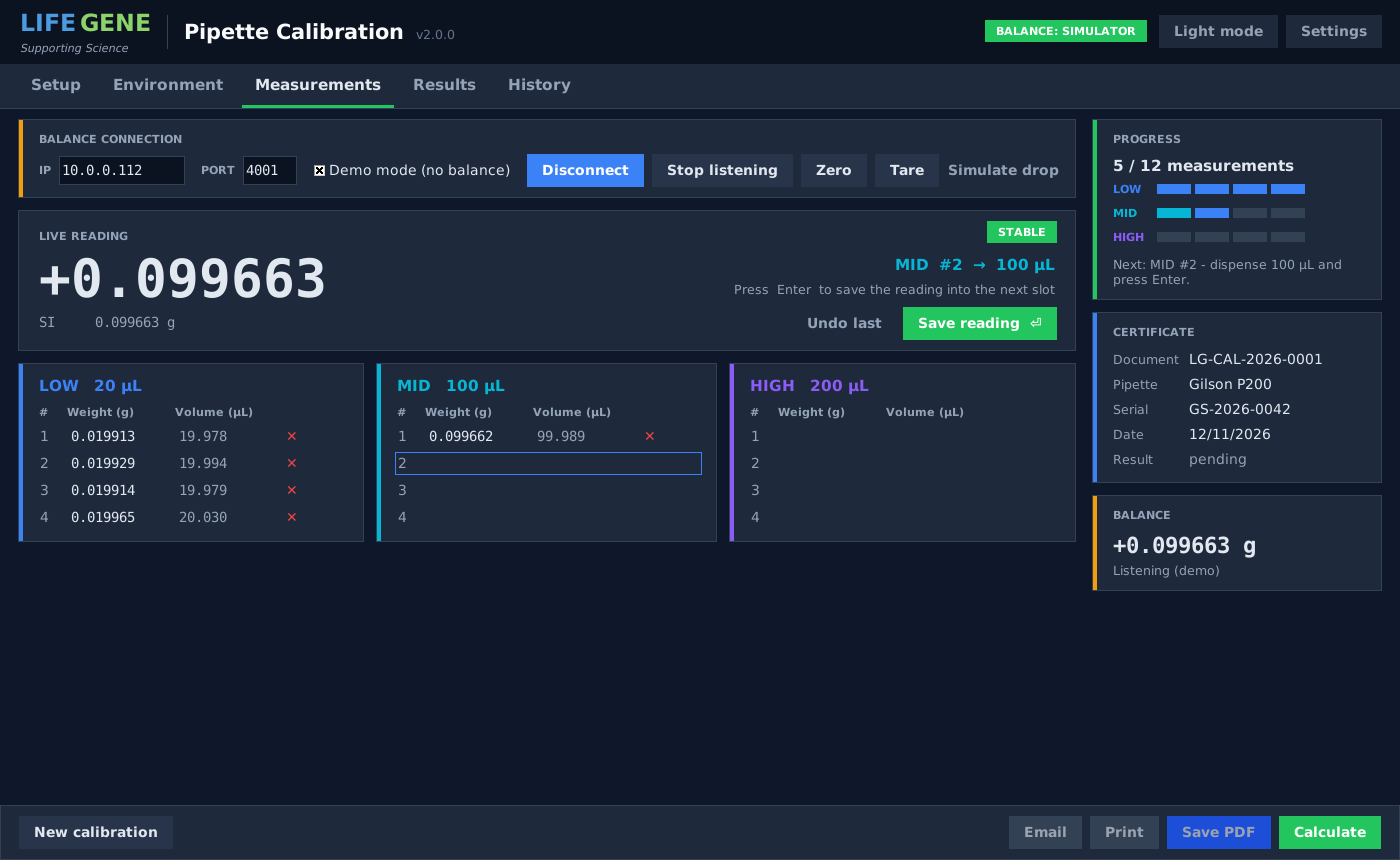
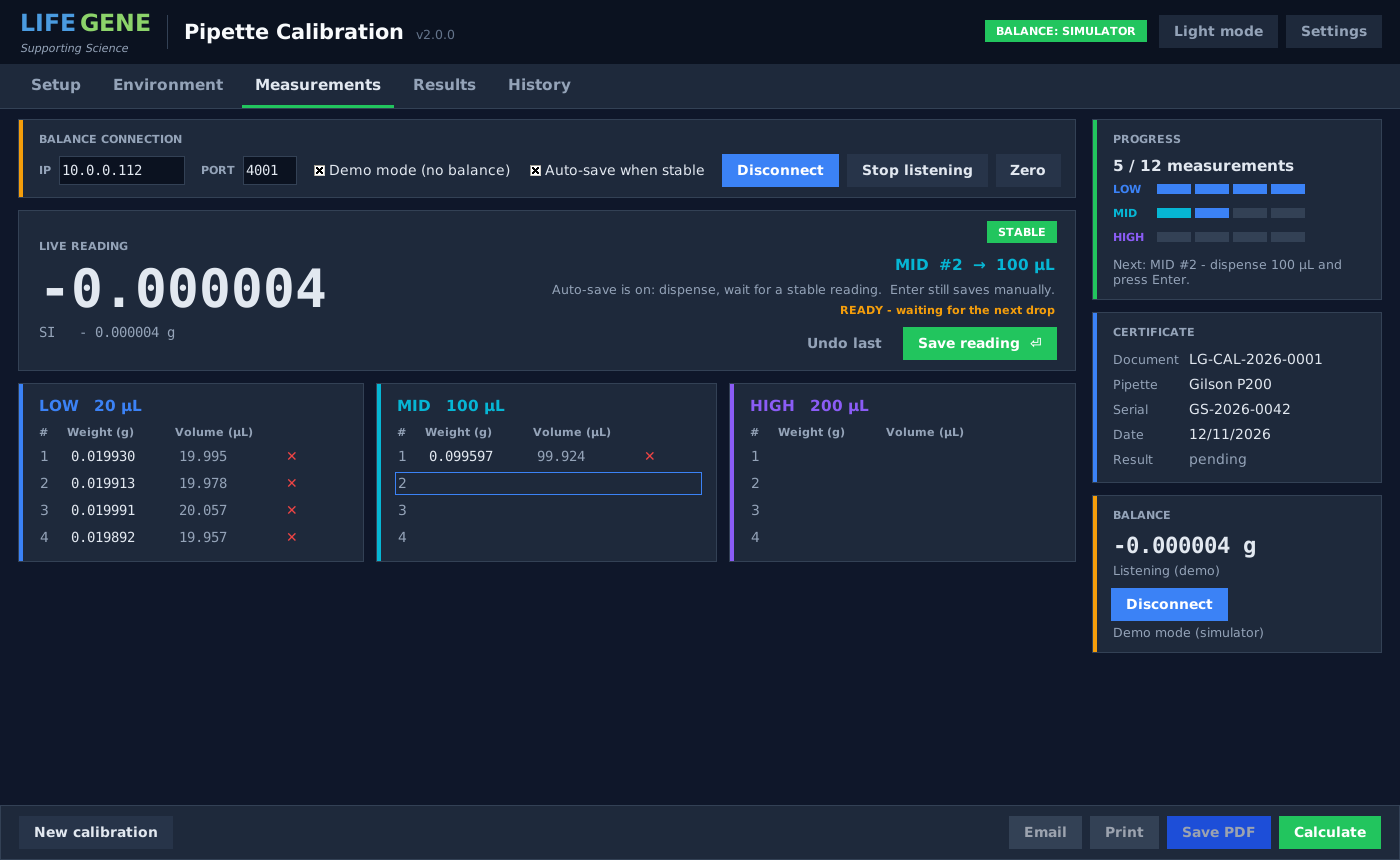
Auto-save a reading once the balance is stable
With 'Auto-save when stable' (default on) a drop is stored as soon as
the balance reports a stable value that has not moved for three
consecutive readings over at least 0.8 s and is at least 30 % of the
expected mass for the current test volume. The program then tares,
beeps, and re-arms only after the pan reads near zero again, so a drop
is never recorded twice and an empty pan is never recorded. Enter and
the Save button still work as a manual override.

Claude-Session: https://claude.ai/code/session_01DKbKsLg9aKj7DGaBzZdUqk

diff --git a/pipette-calibration/pipette_cal/app.py b/pipette-calibration/pipette_cal/app.py
@@ -42,6 +42,18 @@ log = logging.getLogger(__name__)
 
 TABS = ("Setup", "Environment", "Measurements", "Results", "History")
 DEFAULT_OPERATOR = "LifeGene Technical Service"
+
+# Automatic capture: a drop is saved when the balance reports a stable reading
+# that has not moved for AUTO_STABLE_READINGS consecutive readings spanning at
+# least AUTO_STABLE_SECONDS, and that is at least AUTO_MIN_FRACTION of the
+# expected mass of the current test volume. After a capture the program tares
+# and waits until the reading is back below AUTO_REARM_FRACTION before it will
+# capture again, so one drop can never be recorded twice.
+AUTO_STABLE_READINGS = 3
+AUTO_STABLE_SECONDS = 0.8
+AUTO_MIN_FRACTION = 0.30
+AUTO_REARM_FRACTION = 0.15
+AUTO_MIN_ABS_G = 0.00015          # never capture below 0.15 mg whatever the volume
 DATE_FMT = "%d/%m/%Y"
 
 PALETTES = {
@@ -194,6 +206,9 @@ class App(tk.Tk):
         self.scale: BaseScale | None = None
         self._connecting = False
         self.last_reading: Reading | None = None
+        self._auto_armed = True            # False after a capture until the pan reads ~0 again
+        self._auto_run: list[Reading] = []  # consecutive stable readings being evaluated
+        self._auto_flash_after: str | None = None
         self.weights: dict[Level, list[float]] = {lv: [] for lv in LEVELS}
         self.result: CalibrationResult | None = None
         self.current_record: CalibrationRecord | None = None
@@ -218,6 +233,8 @@ class App(tk.Tk):
         self.v_ip = tk.StringVar(value=self.cfg.scale_ip)
         self.v_port = tk.StringVar(value=str(self.cfg.scale_port))
         self.v_demo = tk.BooleanVar(value=self.cfg.demo_mode)
+        self.v_auto = tk.BooleanVar(value=self.cfg.auto_capture)
+        self.v_auto.trace_add("write", lambda *_: self._on_auto_toggle())
         self.v_search = tk.StringVar()
 
         self.v_model.trace_add("write", lambda *_: self._on_model_change())
@@ -265,6 +282,7 @@ class App(tk.Tk):
         self._refresh_slots()
         self._refresh_sidebar()
         self._refresh_scale_widgets()
+        self._refresh_auto_labels()
         self._refresh_history()
 
     def _style_ttk(self):
@@ -549,6 +567,7 @@ class App(tk.Tk):
         tk.Label(row, text="PORT", bg=p["surface"], fg=p["muted"], font=self.f_caption).pack(side="left")
         self._entry(row, self.v_port, width=6, mono=True).pack(side="left", padx=(6, 14), ipady=3)
         ttk.Checkbutton(row, text="Demo mode (no balance)", variable=self.v_demo).pack(side="left", padx=(0, 14))
+        ttk.Checkbutton(row, text="Auto-save when stable", variable=self.v_auto).pack(side="left", padx=(0, 14))
         self.btn_connect = Button(row, self, "Connect", self._toggle_connect, "primary")
         self.btn_connect.pack(side="left")
         self.btn_listen = Button(row, self, "Start listening", self._toggle_listen, "secondary")
@@ -576,8 +595,10 @@ class App(tk.Tk):
         self.live_target = tk.Label(right, text="", bg=p["surface"], fg=p["text"], font=self.f_h,
                                     justify="right")
         self.live_target.pack(anchor="e", pady=(10, 0))
-        tk.Label(right, text="Press  Enter  to save the reading into the next slot", bg=p["surface"],
-                 fg=p["muted"], font=self.f_small).pack(anchor="e", pady=(4, 0))
+        self.live_hint = tk.Label(right, text="", bg=p["surface"], fg=p["muted"], font=self.f_small)
+        self.live_hint.pack(anchor="e", pady=(4, 0))
+        self.auto_status = tk.Label(right, text="", bg=p["surface"], fg=p["amber"], font=self.f_caption)
+        self.auto_status.pack(anchor="e", pady=(2, 0))
         btns = tk.Frame(right, bg=p["surface"])
         btns.pack(anchor="e", pady=(8, 0))
         Button(btns, self, "Undo last", self._undo_last, "ghost").pack(side="left", padx=(0, 6))
@@ -855,6 +876,8 @@ class App(tk.Tk):
             try:
                 while True:
                     reading = self.scale.readings.get_nowait()
+                    if self.v_auto.get():
+                        self._auto_capture(reading)
             except queue.Empty:
                 pass
             if reading:
@@ -919,6 +942,90 @@ class App(tk.Tk):
             return
         self._save_reading()
 
+    def _expected_mass_g(self) -> float | None:
+        slot = self._next_slot()
+        if slot is None:
+            return None
+        return self.spec().volume_for(slot[0]) / 1000.0 / z_factor(self._safe_env())
+
+    def _on_auto_toggle(self):
+        self.cfg.auto_capture = self.v_auto.get()
+        self.cfg.save()
+        self._auto_run = []
+        self._auto_armed = True
+        if hasattr(self, "live_hint"):
+            self._refresh_auto_labels()
+
+    def _refresh_auto_labels(self, status: str = "", colour: str | None = None):
+        p = self.p
+        if self.v_auto.get():
+            self.live_hint.config(text="Auto-save is on: dispense, wait for a stable reading.  Enter still saves manually.")
+        else:
+            self.live_hint.config(text="Press  Enter  to save the reading into the next slot")
+        self.auto_status.config(text=status, fg=colour or p["amber"])
+
+    def _auto_capture(self, r: Reading):
+        """Called for every reading while auto-save is on."""
+        if not hasattr(self, "auto_status"):
+            return
+        expected = self._expected_mass_g()
+        if expected is None:                       # all slots full
+            return
+        min_capture = max(expected * AUTO_MIN_FRACTION, AUTO_MIN_ABS_G)
+        rearm_below = max(expected * AUTO_REARM_FRACTION, AUTO_MIN_ABS_G * 0.5)
+        value = r.value_g
+
+        if not self._auto_armed:
+            # wait for the tare to take effect / the pan to read ~0 again
+            if abs(value) < rearm_below:
+                self._auto_armed = True
+                self._auto_run = []
+                self._refresh_auto_labels("READY - waiting for the next drop")
+            return
+
+        if value < min_capture:
+            self._auto_run = []
+            self._refresh_auto_labels("READY - waiting for the next drop")
+            return
+
+        tolerance = max(expected * 0.002, 3e-6)
+        if not r.stable or (self._auto_run and abs(value - self._auto_run[-1].value_g) > tolerance):
+            self._auto_run = [r] if r.stable else []
+            self._refresh_auto_labels("STABILISING ...")
+            return
+        self._auto_run.append(r)
+        n = len(self._auto_run)
+        span = self._auto_run[-1].timestamp - self._auto_run[0].timestamp
+        if n >= AUTO_STABLE_READINGS and span >= AUTO_STABLE_SECONDS:
+            self._auto_run = []
+            self._auto_armed = False
+            self._commit_reading(value, auto=True)
+        else:
+            self._refresh_auto_labels(f"STABLE {min(n, AUTO_STABLE_READINGS)}/{AUTO_STABLE_READINGS} ...")
+
+    def _commit_reading(self, value: float, auto: bool):
+        """Store *value* in the next slot, tare the balance, advance."""
+        slot = self._next_slot()
+        if slot is None:
+            return
+        lv, idx = slot
+        self.weights[lv].append(value)
+        try:
+            if self.scale:
+                self.scale.tare()                # ready for the next drop
+        except (ScaleError, OSError) as exc:
+            log.warning("tare failed: %s", exc)
+        if isinstance(self.scale, SimulatedScale):
+            self.scale.target_g = self.scale._offset_g = 0.0
+        self.last_reading = None
+        self._refresh_slots()
+        self._refresh_auto_labels(f"SAVED {lv.value} #{idx + 1}:  {value:.6f} g" + ("  (auto)" if auto else ""),
+                                  self.p["green"])
+        if auto:
+            self.bell()                      # audible confirmation, hands stay on the pipette
+        if self._next_slot() is None:
+            self.after(150, self._calculate)
+
     def _save_reading(self):
         if not self.last_reading or not self.scale or not self.scale.connected:
             messagebox.showinfo("Balance", "No reading from the balance yet.", parent=self)
@@ -933,17 +1040,9 @@ class App(tk.Tk):
             if not messagebox.askyesno("Measurements", f"The reading is {value:+.6f} g. Save it anyway?",
                                        parent=self):
                 return
-        self.weights[lv].append(value)
-        try:
-            self.scale.tare()                # ready for the next drop
-        except (ScaleError, OSError) as exc:
-            log.warning("tare failed: %s", exc)
-        if isinstance(self.scale, SimulatedScale):
-            self.scale.target_g = self.scale._offset_g = 0.0
-        self.last_reading = None
-        self._refresh_slots()
-        if self._next_slot() is None:
-            self.after(150, self._calculate)
+        self._auto_armed = False
+        self._auto_run = []
+        self._commit_reading(value, auto=False)
 
     def _undo_last(self):
         for lv in reversed(LEVELS):
@@ -1165,6 +1264,8 @@ class App(tk.Tk):
             return
         self.weights = {lv: [] for lv in LEVELS}
         self.result, self.pdf_path, self.current_record = None, None, None
+        self._auto_armed, self._auto_run = True, []
+        self._refresh_auto_labels()
         self.v_serial.set("")
         self.v_comments.set("")
         self.v_doc.set(self.history.next_document_number())

diff --git a/pipette-calibration/pipette_cal/storage.py b/pipette-calibration/pipette_cal/storage.py
@@ -54,6 +54,7 @@ class AppConfig:
     email_to: str = ""
     demo_mode: bool = False
     auto_connect: bool = True        # try the saved balance address when the program starts
+    auto_capture: bool = True        # save a reading automatically once it is stable
     place_of_calibration: str = "LifeGene Lab, Mevo Horon, Israel"
     next_calibration_months: int = 12
     procedure: str = "W-004-04 Calibration of Pipette"   # "Standard" line on the certificate

diff --git a/pipette-calibration/README.md b/pipette-calibration/README.md
@@ -83,11 +83,16 @@ without Outlook the default mail client opens instead.
    automatically and can be edited.
 2. **Environment** - air temperature, pressure, humidity, water temperature,
    balance ID. Water density, air density and the Z factor update live.
-3. **Measurements** - *Connect* (IP 10.0.0.112 : 4001 by default). The live
-   reading is always shown. Dispense the test volume and press **Enter**
-   (or *Save reading*); the program stores the weight, tares the balance and
-   moves to the next slot. *Zero* / *Tare* / *Undo last* / per-slot ✕ are
-   available. After the 12th weight the results are calculated automatically.
+3. **Measurements** - the program connects to the saved balance address
+   (10.0.0.112 : 4001 by default) when it starts; *Connect* is also in the
+   sidebar. The live reading is always shown. With **Auto-save when stable**
+   (default) you only dispense: as soon as the balance reports a stable
+   reading that has not moved for three readings over at least 0.8 s, and
+   that is at least 30 % of the expected mass, the weight is stored, the
+   balance is tared, a beep confirms, and the next slot is armed once the pan
+   reads zero again. **Enter** or *Save reading* still save manually. *Zero* /
+   *Tare* / *Undo last* / per-slot ✕ are available. After the 12th weight the
+   results are calculated automatically.
 4. **Results** - PASS / FAIL with all figures. Nothing is saved to disk until
    you choose **Save PDF**, **Print** or **Email** in the footer.
 5. **History** - search past calibrations, re-create a PDF, or load one back
